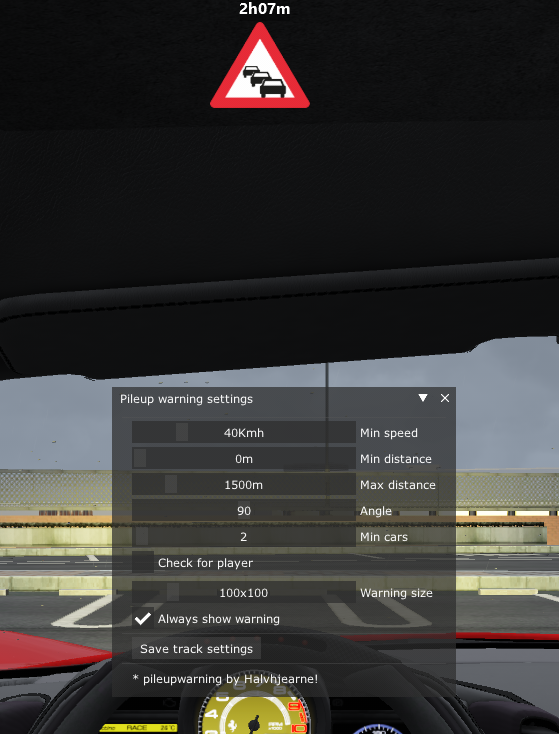
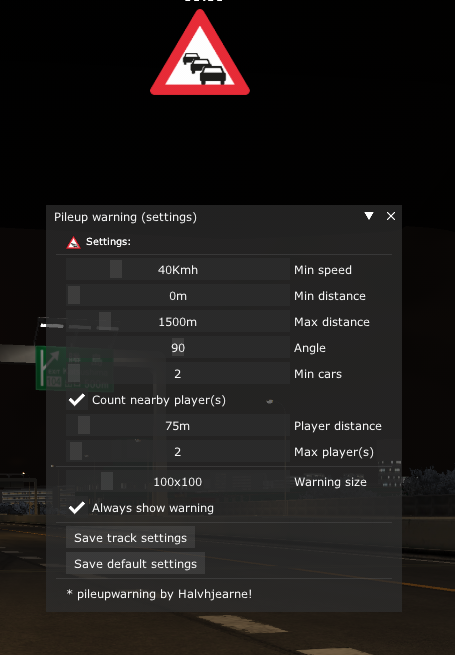
update added option to save default settings changed save settings to save for individual layouts changed the way players are counted added map scaling to distances added slider for how many players to count near a slowing ai edited tooltips and default settings

diff --git a/README.md b/README.md
@@ -15,4 +15,4 @@ once it is installed and you are ingame, it is adviced to enable the "show warni
 
 Known problems: 
 
-warning may flicker sometimes
+warning may flicker sometimes (false positives) but this can be reduced by changing settings.
